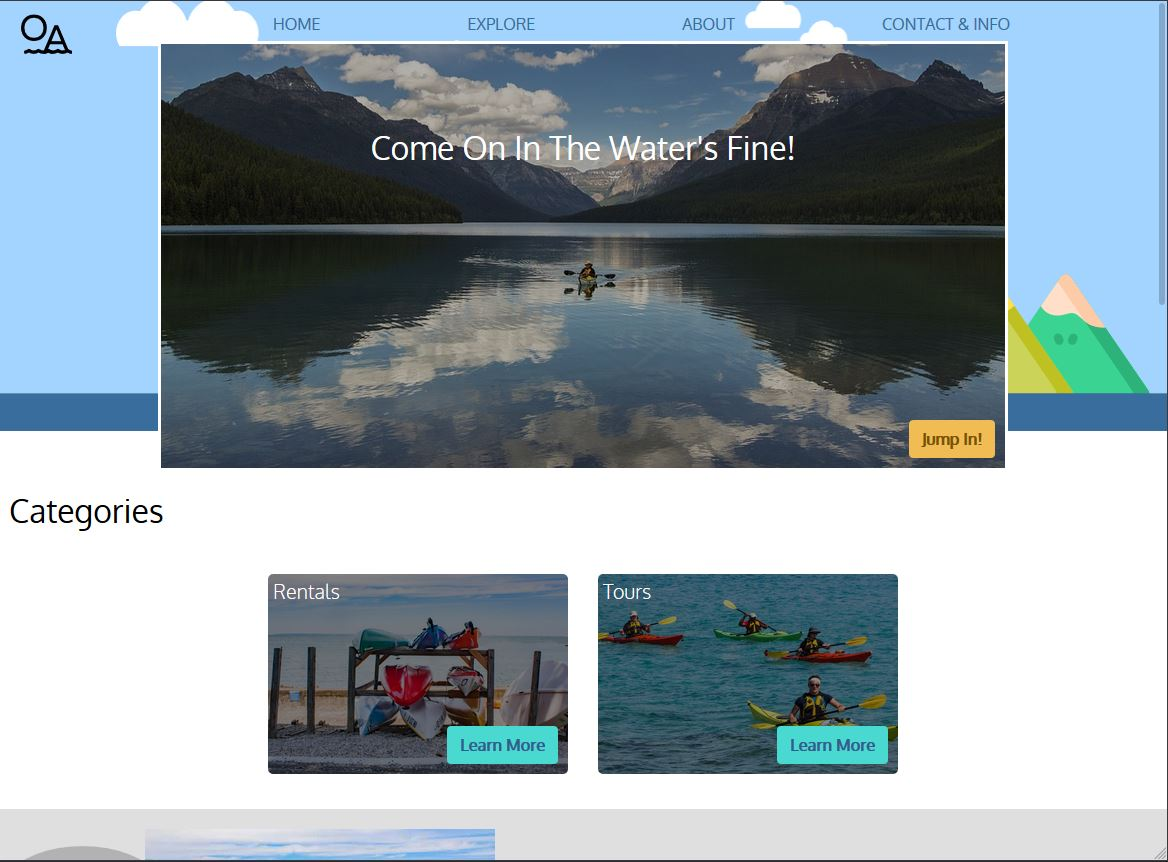
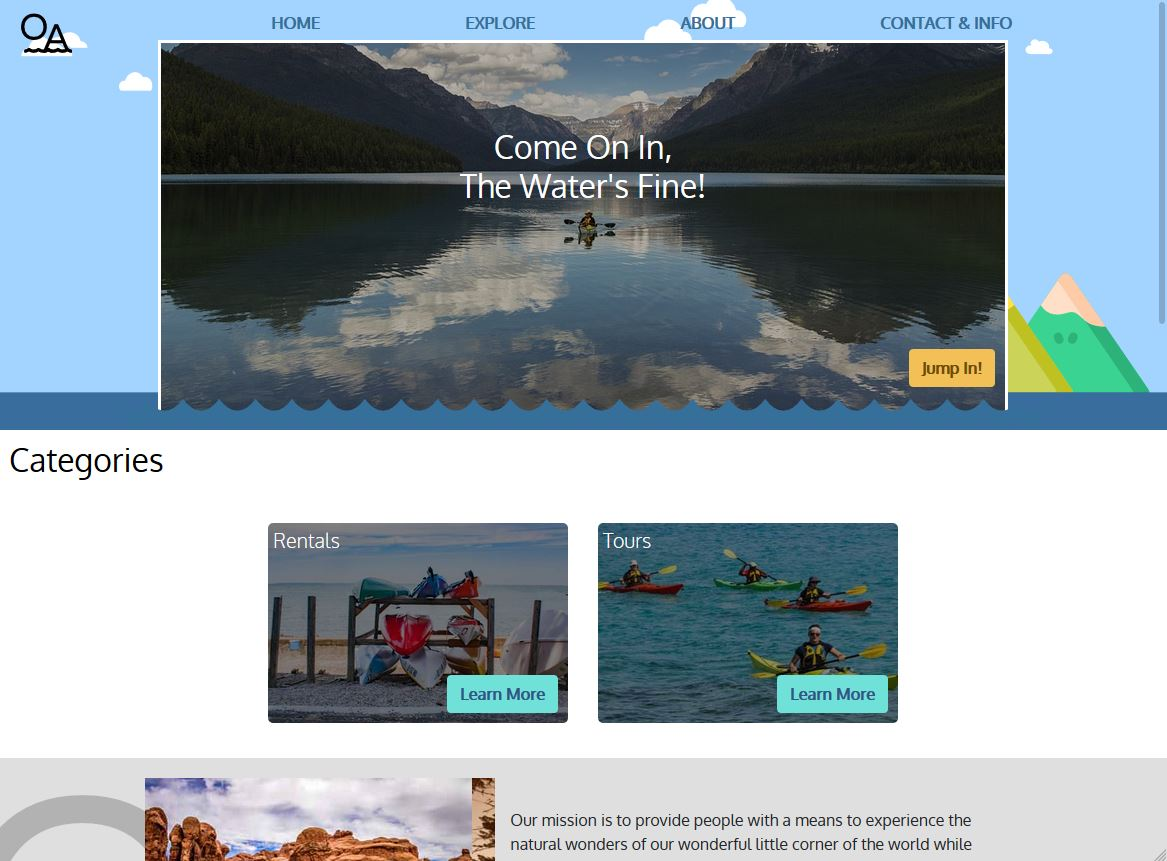
(update): Centered nav bar text based on feedback and updated OA proj images

diff --git a/src/components/Projects/ProjTxt.js b/src/components/Projects/ProjTxt.js
@@ -46,7 +46,7 @@ export const projTxt = {
     },
     adventure: {
         purpose: ["Outdoor Adventures! A Business site helping people get out and explore the great outdoors"],
-        notes: ["Local Business Site made with design feedback from client", "Custom animations with unique and immersive designs", "Responsive styling with SASS/CSS"],
+        notes: ["Business Site made with design feedback from client", "Custom animations with unique and immersive designs", "Responsive styling with SASS/CSS"],
         links: {
             liveSite: "https://dan2d.github.io/outdoor-adventures/#/",
                 github: "https://github.com/Dan2D/outdoor-adventures" ,

diff --git a/src/components/Nav/Nav.css b/src/components/Nav/Nav.css
@@ -29,7 +29,7 @@
     width: 70%;
     display: flex;
     justify-content: space-between;
-    align-self: flex-end;
+    align-self: center;
     margin-right: 10px;
 }
 
